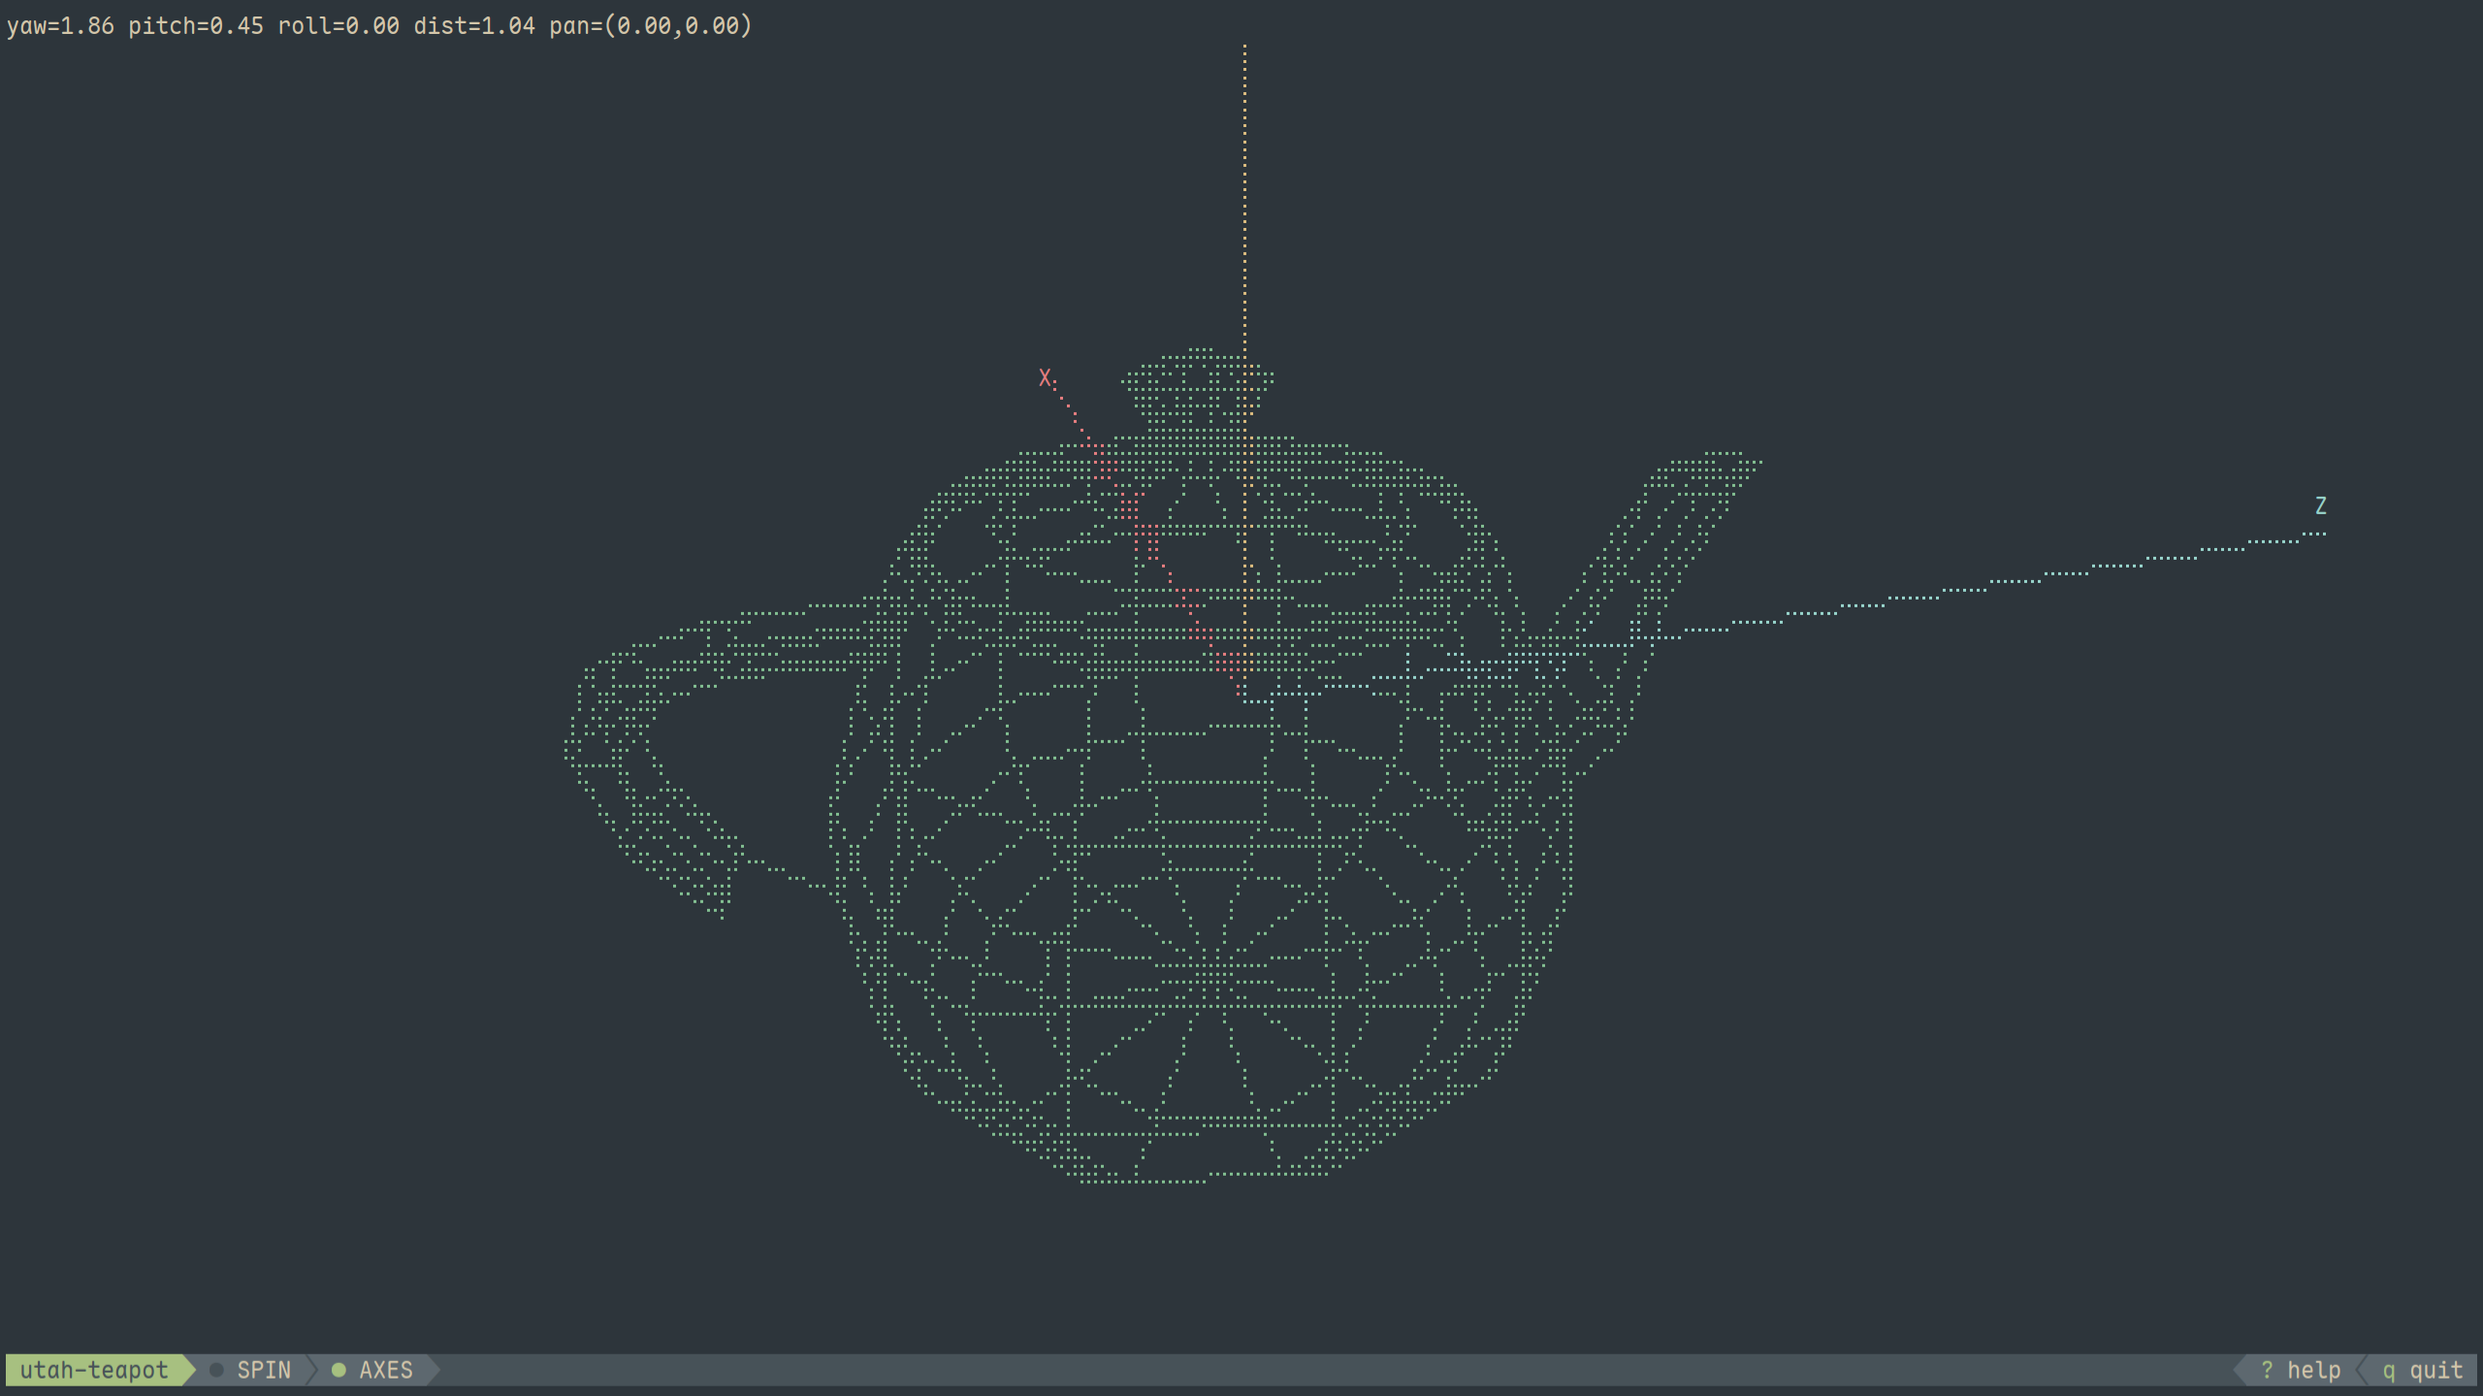
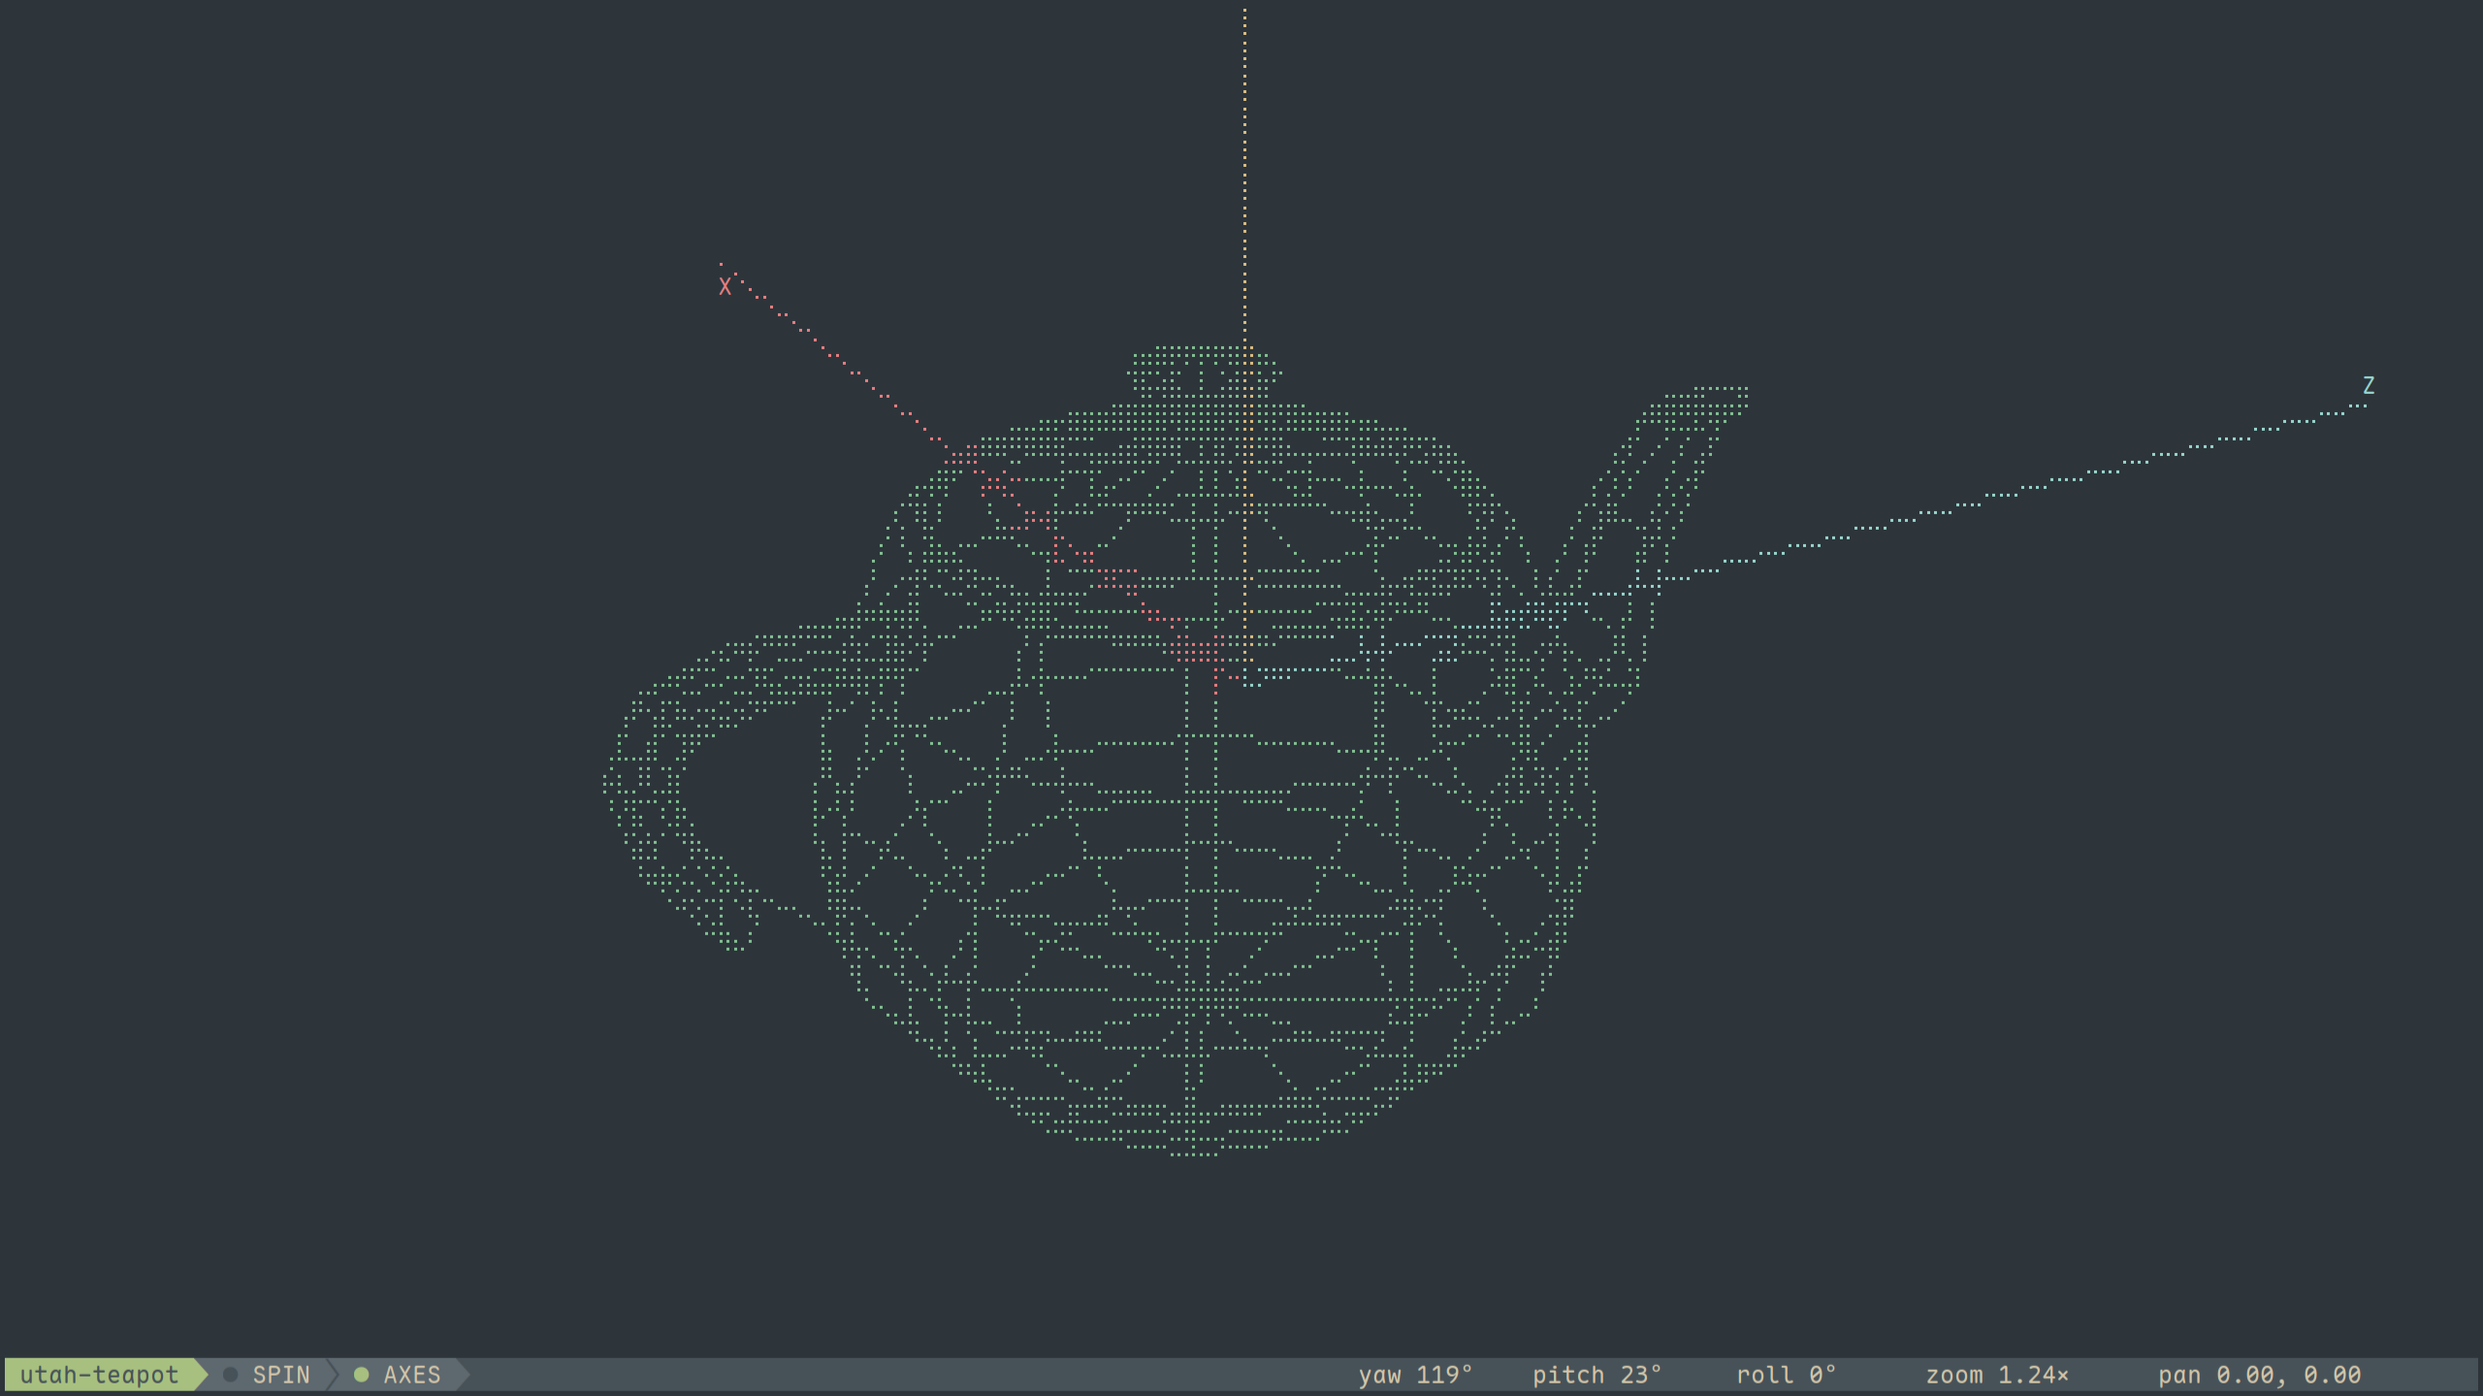
docs(viewer): the bar, the menu and the key table
SPEC.md describes the two-region screen, the bar's shedding order, the Esc
menu and the new chord groups; README.md gains the menu section and keeps the
demo screenshot, now regenerated with the new bar.
The viewer's changelog lists the menu, the bar and the key changes, and the
0.9.0 entry's example path is corrected.

diff --git a/SPEC.md b/SPEC.md
@@ -48,7 +48,7 @@ editing it.
 
 Run `wireforge` with no file at all and it opens the viewer with an empty
 model: the XYZ axes are drawn at the origin, so rotating, panning and zooming
-still work, and the statusline's pill reads `no file`.
+still work, and the bar's pill reads `no file`.
 A menu entry or launcher gets the same empty canvas if it runs the viewer in a
 terminal and gives it nothing on stdin. If stdin is piped or redirected, a
 bare `wireforge` reads the stream as a model instead
@@ -60,22 +60,35 @@ wireforge
 
 ### The screen
 
-Three regions, top to bottom. Row 0 is the camera's telemetry: yaw, pitch,
-roll, distance and pan, and nothing else — the model's name is not repeated
-there. The middle is the model itself. The last row is a statusline strip,
-which is where that name lives:
+Two regions, top to bottom: the model, and one bar under it. The bar is laid
+out like a powerline statusline: the model's name in an accent pill on the
+left, two state lamps in a lighter block beside it (one dot per lamp: it lights
+in the accent when on and goes deep when off), and the camera telemetry
+right-aligned on the bar's own ground — yaw, pitch and roll in degrees, zoom as
+a multiple of the start-up framing, and pan in model units. The telemetry is a
+row of fixed columns, each label and its value in a column of its own, so a
+value that grows (a minus sign, another digit) takes the room to its right and
+the labels hold their places. Every block is closed by a wedge in its own
+ground, so the pill's colour tapers into the lamps and the lamps into the bar,
+and the two lamps of one block are divided by a thin seam:
 
 ```text
- model.wrfm ▶ ● SPIN  ● AXES ▶        ◀ ? help  q quit
+ utah-teapot ▶ ○ SPIN › ● AXES ▶           yaw 107°    pitch 26°     roll 0°      zoom 1.04×      pan 0.00, 0.00
 ```
 
-The name sits on the accent colour, the two lamps report whether the model is
-spinning and whether the axes are drawn (a lit dot means on), and the
-right-hand hints carry the everyday chords. The strip fills the row edge to
-edge, and the pill yields at most half of it so a long name can never crowd
-out the rest. When the terminal is too narrow for all of it, the hints are
-shed first, then the lamps are dropped, then the name is shortened with `…`.
-`?` always opens the full list.
+The bar fills the row edge to edge, framing the model canvas above it. The
+name pill yields at most half the row and marks a cut name with `…`. When the
+terminal is too narrow, the lamps go first (the axes lamp before the spin
+lamp), then the telemetry sheds from the right (pan first); a row too tight for
+the pill's wedge keeps the name and drops the wedge. The bar carries no
+key hints: the menu's Key Bindings always has the full list. The wedges and the
+seam are powerline glyphs (U+E0B0 and U+E0B1, drawn as `▶` and `›` above) —
+the separators lualine and powerline prompts draw — so the bar asks for a
+powerline (Nerd Font) terminal font.
+
+`Esc` opens the menu hub: **Key Bindings**, **About** and **Exit**. The help
+panel is generated from the same binding table the keyboard uses, so the two
+cannot drift apart; see [Menu](#menu).
 
 ### Stream input
 
@@ -123,15 +136,15 @@ wireforge model.wrfm --vfov 2.0   # wide: zooms in
 ### Key bindings
 
 Bindings are grouped by what you are doing, not by which modifier you hold.
-Chords are spelled `Ctrl+Shift+Key`; the arrow keys work wherever `hjkl` do.
+Chords are spelled with modifiers in `Ctrl+Shift+` order; the arrow keys
+work wherever `hjkl` do.
 
-The bindings are declared once, in one table in the source. The viewer's key
-lookup is generated from that table by the compiler, and the statusline hints
-read it directly — so a rebind moves the keyboard and the hints together. The
-help overlay is not generated: it is written out by hand, and a test checks
-every binding's chord in the table against that page, so the two cannot drift
-apart without the suite failing. The tables below are that same list written
-out for reading.
+The bindings are declared once, in one table in the source. The keyboard
+resolver reads that table and the help panel is generated from it, and a test
+keeps each help row's first key on the chord that actually fires — so a rebind
+forces the help page to follow. The bar carries no hints: the menu's Key
+Bindings is the only place the viewer lists the chords. The tables below are
+that same list written out for reading.
 
 #### Rotate — the world's axes
 
@@ -147,20 +160,11 @@ Left and right read as you see them: the model faces out of the screen, so
 | `d`           | roll anticlockwise |
 | `f`           | roll clockwise     |
 
-#### Move — the world's plane
-
-| Key                       | Action        |
-| :------------------------ | :------------ |
-| `Shift+h` / `Shift+Left`  | pan left      |
-| `Shift+l` / `Shift+Right` | pan right     |
-| `Shift+k` / `Shift+Up`    | pan up        |
-| `Shift+j` / `Shift+Down`  | pan down      |
-| `=` / `+`                 | dolly nearer  |
-| `-` / `_`                 | dolly farther |
-
 #### Rotate — the model's own axes
 
-Same turns, but around the model's own frame: `Ctrl+h` yaws it to _its_ left.
+The same turns, but around the model's own current axes: `Ctrl+h` yaws it to
+_its_ left. Unlike the world keys, the axis rides with the model, so the
+control feels like a trackball rather than a turntable.
 
 | Key                     | Action             |
 | :---------------------- | :----------------- |
@@ -171,22 +175,41 @@ Same turns, but around the model's own frame: `Ctrl+h` yaws it to _its_ left.
 | `Ctrl+d`                | roll anticlockwise |
 | `Ctrl+f`                | roll clockwise     |
 
-#### Frame — where the model sits on screen
+#### Move — the world's plane
 
-| Key | Action         |
-| :-- | :------------- |
-| `r` | reset the view |
+| Key                       | Action        |
+| :------------------------ | :------------ |
+| `Shift+h` / `Shift+Left`  | pan left      |
+| `Shift+l` / `Shift+Right` | pan right     |
+| `Shift+k` / `Shift+Up`    | pan up        |
+| `Shift+j` / `Shift+Down`  | pan down      |
+| `+` / `=`                 | zoom in       |
+| `-` / `_`                 | zoom out      |
+
+#### View — where the model sits on screen
+
+| Key     | Action          |
+| :------ | :-------------- |
+| `r`     | reset the view  |
+| `Space` | toggle spinning |
+| `Tab`   | toggle the axes |
 
 #### Session
 
-| Key                               | Action           |
-| :-------------------------------- | :--------------- |
-| `Space`                           | toggle spinning  |
-| `Tab` / `Shift+Tab`               | toggle the axes  |
-| `?`                               | toggle this help |
-| `q` / `Esc` / `Ctrl+c` / `Ctrl+q` | quit             |
+| Key            | Action           |
+| :------------- | :--------------- |
+| `Esc`          | open the menu    |
+| `q` / `Ctrl+c` | quit             |
 
-The help overlay lists every binding, grouped the same way.
+#### Menu
+
+`Esc` opens the hub: **Key Bindings**, **About** and **Exit**. `j`/`k` or the
+arrow keys move, `Enter` selects, and `Esc` closes. Panels opened from the menu
+return there on `Esc`; `q` and `Ctrl+c` quit from anywhere, including the menu
+and its panels.
+
+The help panel lists every binding, grouped the same way, and is generated from
+the binding table rather than maintained by hand.
 
 ## The `.wrfm` Format
 

diff --git a/CHANGELOG.md b/CHANGELOG.md
@@ -19,6 +19,56 @@ carried in git on that date.
 
 ## [Unreleased]
 
+### Added
+
+- An `Esc` menu hub with Key Bindings, About and Exit, plus an About panel.
+  Panels opened from the menu return there on `Esc`; `q` and `Ctrl+C` quit from
+  anywhere.
+- One bar under the model, laid out like a powerline statusline: the model's
+  name in an accent pill, the state lamps in a block of their own, and the
+  camera readout in degrees, zoom multiples and model units.
+- A generated help panel: the page is built from the binding table, so a
+  rebind, a new action or a reworded description is one edit.
+
+### Changed
+
+- The bar carries no key hints: the menu's Key Bindings is the only place the
+  chords are listed. On a narrow row the lamps go first, then the readout sheds
+  from the right.
+- The bar's blocks are joined by the powerline separators (U+E0B0 and U+E0B1):
+  the name pill tapers into the state lamps and those into the bar, the way
+  lualine's sections do. The bar asks for a powerline (Nerd Font) terminal
+  font.
+- `Esc` now opens the menu (and closes or returns from its panels) instead of
+  quitting; `q` and `Ctrl+C` quit from anywhere. `?` is unbound now that Key
+  Bindings lives in the menu.
+- `+` is the primary zoom-in chord (with `=` as the alias), and `-`/`_` zoom
+  out.
+- The telemetry labels on the bar (`yaw`, `pitch`, `roll`, `zoom`, `pan`) use a
+  bright palette slot instead of the muted one, so the readout scans at a
+  glance.
+- The camera readout is a row of fixed columns: a value that grows (a minus
+  sign, another digit) takes the room to its right, so the labels hold their
+  places and the bar does not jump under the reader's feet. A value that
+  outgrows its column is cut and marked with `…`.
+- The key panel is laid out as one grid: a chord gutter measured over the whole
+  table, group headings cut to their column's width as rules, and the frame
+  named in the rotation headings (`ROTATE · world axes` / `· model axes`).
+- The overlay panels (menu, Key Bindings, About) paint no ground of their own:
+  they carry the terminal's own background, the one the transparent canvas
+  shows, so panel and 3D space read as one surface. The menu's cursor is the
+  `▸` marker and the accent ink instead of a selected band.
+
+### Fixed
+
+- On a terminal that cannot report key-up, a tap is one finite step instead of
+  a one-second drift; holds only start when key-up is actually reported.
+- `Ctrl+Shift+C` no longer quits (it is a terminal copy shortcut); `Ctrl+C`
+  still quits.
+- The key panel's right column starts at the same offset on every row: the
+  offset was measured in bytes while the chords carry arrows, so every row
+  holding an arrow shifted its right half two cells to the left.
+
 ## [0.9.0] - 2026-10-19
 
 ### Added
@@ -27,7 +77,7 @@ carried in git on that date.
 - A lualine-style statusline in the viewer, with the hints trimmed to `?` and
   `q`.
 - `r` resets the view in the viewer.
-- Example asset `utah-teapot.wrfm`.
+- Example model `wrfm_files/utah-teapot.wrfm`.
 
 ### Changed
 

diff --git a/README.md b/README.md
@@ -44,11 +44,17 @@ The repository holds the viewer and the pieces around it:
   name: a model in a `.txt` opens as a model, OBJ content is rejected with a
   hint to run `wrfm convert`, and a broken model fails with the parser's
   line-and-column report on stderr.
-- **Keyboard control.** Rotate, pan and zoom with `hjkl`, the arrow
-  keys, `d`/`f` and `=`/`-`. `Ctrl` turns the model around its own axes instead
-  of the world's, and `r` resets the view to the file's own framing. A telemetry
-  line reports the camera, a statusline strip names the model and carries the
-  everyday keys, and `?` opens a grouped reference to every binding.
+- **Keyboard control.** Rotate, pan and zoom with `hjkl`, the arrow keys,
+  `d`/`f` and `+`/`-`; `Ctrl+hjkl`, `Ctrl+arrows` and `Ctrl+d`/`Ctrl+f` turn the
+  model around its own axes instead of the world's. `r` resets the view and
+  `Space` spins the model. `Esc` opens a menu with Key Bindings, About and Exit;
+  Key Bindings is the only way into the key reference — the bar carries no key
+  hints. One bar under the model names the file in an accent pill, carries the
+  state lamps and reports the camera in degrees, zoom multiples and model
+  units. The reference is generated from the key table and checked against it,
+  so a rebind cannot leave it behind. The bar is laid out like a powerline
+  statusline — its blocks are joined by the wedges lualine draws (U+E0B0 and
+  U+E0B1) — while the panels stay on stock glyphs.
 - **Everything is a pipe.** The viewer reads stdin (`wireforge -`) and the CLI
   writes nothing to disk, so commands chain with pipes:
 
@@ -61,9 +67,16 @@ The repository holds the viewer and the pieces around it:
   no GPU, no GUI toolkit, and no display server. The event loop sleeps when
   nothing changes and redraws at full speed while you animate. Projection and
   rasterization switch to parallel (rayon) paths on large models.
-- **Built for scripts.** Data goes to stdout, diagnostics go to stderr, and the
-  exit code tells you how things are: ok, warn, broken, or no result at all. A
-  CI job can assert on a model the same way it asserts on a test suite.
+- **Built for scripts.** The CLI writes its result to stdout and its
+  diagnostics to stderr, and its exit code says how things are: ok, warn,
+  broken, or no result at all. A CI job can assert on a model the same way it
+  asserts on a test suite.
+
+## The Esc menu
+
+Press `Esc` for the hub: Key Bindings, About and Exit. `j`/`k` or the arrow
+keys move, `Enter` selects, and `Esc` closes. Panels opened from the menu return
+there on `Esc`; `q` and `Ctrl+C` quit from anywhere.
 
 ## Getting started
 
